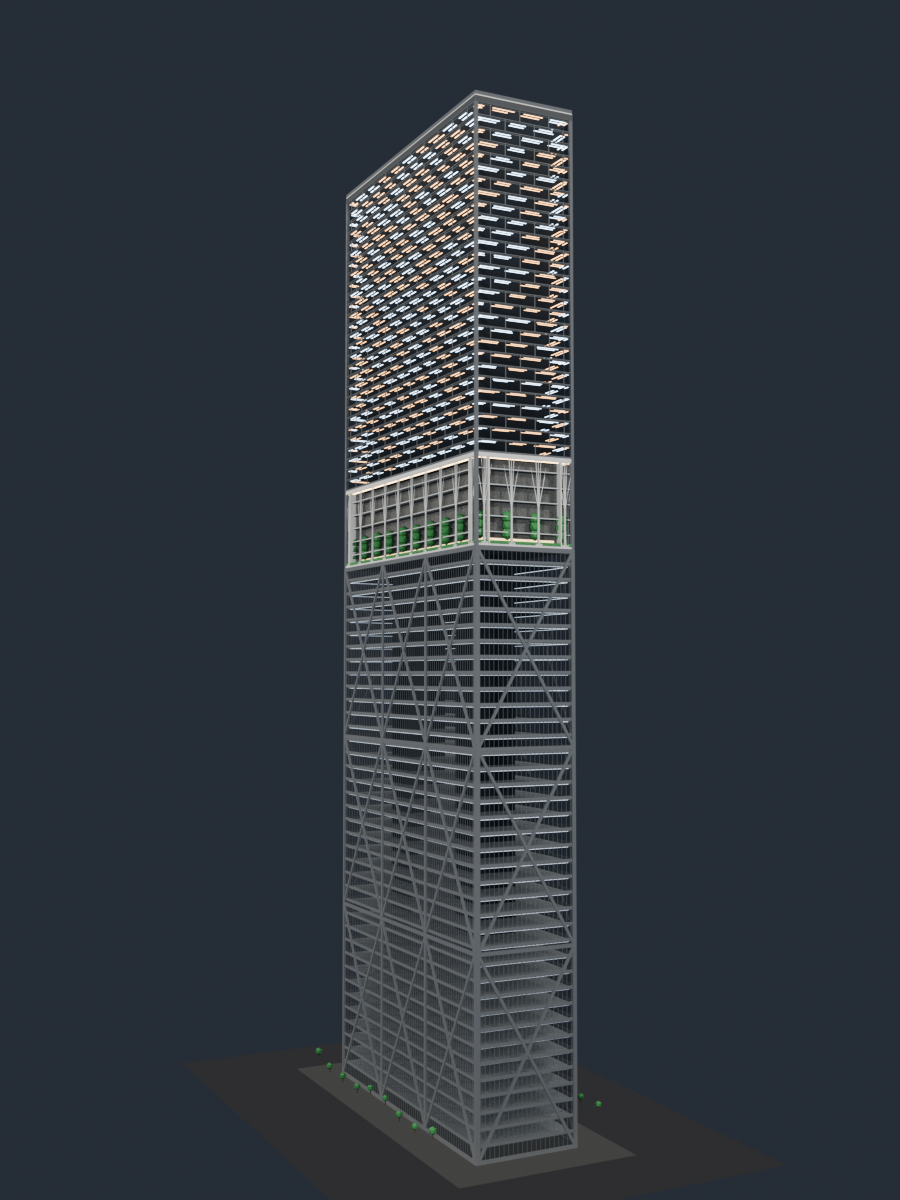
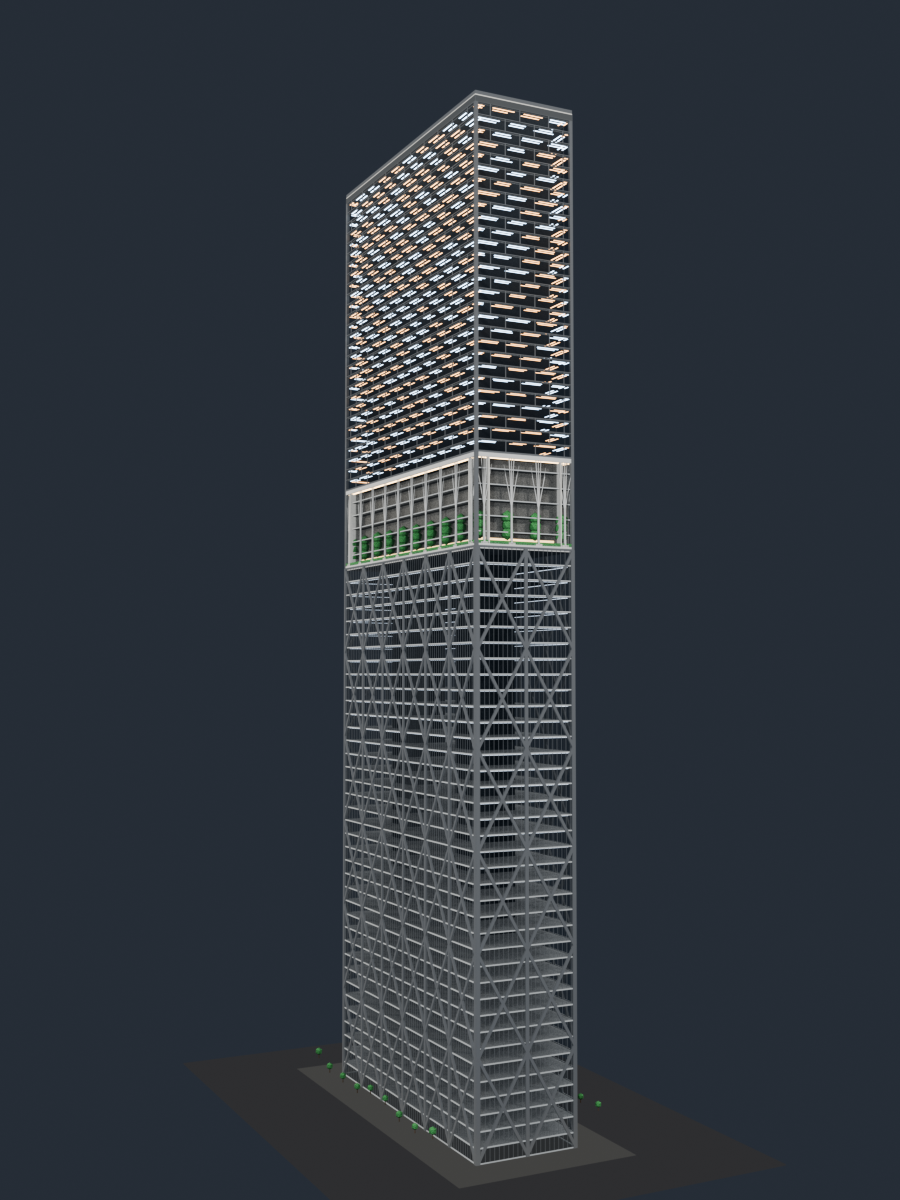
feat: tighten the Stack 3 lattice to six bays by six tiers
Doubles the density in both directions (36 cells instead of 9) and drops the
thick horizontal frame rails: the lattice now carries vertical posts only, so
the floor line reads as the slab edge, with the curtain wall's 1.6 m mullions
behind it.

Changed region(s): [[0.3733, 0.4625, 0.6533, 0.9867]]

diff --git a/build_stack3.py b/build_stack3.py
@@ -426,7 +426,7 @@ def build_lattice(mats, cols):
     """
     z0, z1 = BAND["Lattice"]
     col = cols["Lattice"]
-    bays, tiers = 3, 3
+    bays, tiers = 6, 6
     tier_h = (z1 - z0) / tiers
 
     glass = Part("Lattice_Glass", mats["glass"], col)
@@ -448,12 +448,14 @@ def build_lattice(mats, cols):
             mull.face_box(face, u - 0.055, u + 0.055, z0, z1, -0.40, 0.13)
     mull.finish()
 
-    band = Part("Lattice_Spandrels", mats["silver"], col)
+    # The floor line is the slab edge itself - no added white band.
+    band = Part("Lattice_Slab_Edges", mats["slab"], col)
     for face in FACES:
         half = face_half(face)
         for z in [0.0] + [lev for lev in floor_levels() if lev < z1 - 0.5]:
-            band.face_box(face, -half, half, z + 0.02, z + 0.92,
-                          -0.38, 0.30)
+            lo = 0.0 if z <= 0.0 else z - 0.32
+            hi = 0.40 if z <= 0.0 else z + 0.08
+            band.face_box(face, -half, half, lo, hi, -0.34, 0.26)
     band.finish()
 
     inset = 0.62
@@ -461,21 +463,17 @@ def build_lattice(mats, cols):
     for face in FACES:
         half = face_half(face)
         hw = half - inset
-        n = bays if face in LONG_FACES else 1
+        n = bays if face in LONG_FACES else 2
         for i in range(n + 1):
             u = -hw + i * 2 * hw / n
             frame.face_box(face, u - inset, u + inset, z0, z1, -0.34, 0.60)
-        for j in range(tiers + 1):
-            z = z0 + inset + j * ((z1 - z0) - 2 * inset) / tiers
-            frame.face_box(face, -half, half, z - inset, z + inset,
-                           -0.34, 0.60)
     frame.finish()
 
     brace = Part("Lattice_Braces", mats["silver"], col)
     for face in FACES:
         half = face_half(face)
         hw = half - inset
-        n = bays if face in LONG_FACES else 1
+        n = bays if face in LONG_FACES else 2
         du = 2 * hw / n
         dz = ((z1 - z0) - 2 * inset) / tiers
         for i in range(n):

diff --git a/README.md b/README.md
@@ -242,12 +242,12 @@ as the "stack" lines between them. Below the apartments the storey is 5 m, so th
 lower block carries 38 floors in that height; the apartments keep their 4 m
 module and run 28 floors.
 
-- **Lattice, 0-190 m.** The whole lower block is one facade: a bold external frame
-  three bays wide by three tiers tall, with an X brace in every cell and glass
-  behind it - three crosses per row, three rows, after the reference tower the
-  client pointed at. Behind the frame sits a real vertical curtain wall: narrow
-  panes between 1.6 m mullions with a white spandrel band on every 5 m floor, a
-  warm lit hall behind the lower floors and cool floors above.
+- **Lattice, 0-190 m.** The whole lower block is one facade: an external frame six
+  bays wide by six tiers tall, with an X brace in every cell - six crosses per
+  row, six rows. The frame carries vertical posts only: no added horizontal
+  band, the floor line is the slab edge itself. Behind it sits a vertical curtain
+  wall of narrow panes between 1.6 m mullions, a warm lit hall behind the lower
+  floors and cool floors above.
 - **Plaza, 190-220 m.** A planted arcade of branching tree columns.
 - **Apartments, 220-334 m.** A semi-transparent glazed skin drawn as a staggered
   block grid: every bay is one 4 m storey of glass, laid in a half-bond running
